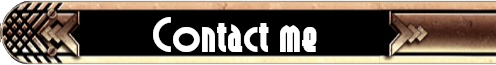
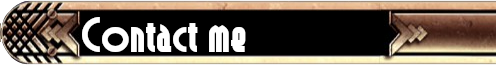
finished/Portfolio, ready for deploy

Changed region(s): [[0.1512, 0.2462, 0.6653, 0.8]]

diff --git a/src/components/Home/Home.jsx b/src/components/Home/Home.jsx
@@ -12,6 +12,25 @@ const Home = () => {
     const [sidebarAnim, setSidebarAnim] = useState(false)
     const [sidebar, setSidebar] = useState(false)
 
+    window.addEventListener("scroll", function () {
+        var scrollPos = this.scrollY
+        if(scrollPos < 270) {
+            document.getElementById('persInfoBtn').className = 'D-sidebarOpts optSelect'
+            document.getElementById('skillsBtn').className = 'D-sidebarOpts optDeselect'
+        } else if(scrollPos >= 270 &&  scrollPos < 975) {
+            document.getElementById('persInfoBtn').className = 'D-sidebarOpts optDeselect'
+            document.getElementById('skillsBtn').className = 'D-sidebarOpts optSelect'
+            document.getElementById('projectsBtn').className = 'D-sidebarOpts optDeselect'
+        } else if(scrollPos >= 975 && scrollPos < 1700) {
+            document.getElementById('skillsBtn').className = 'D-sidebarOpts optDeselect'
+            document.getElementById('projectsBtn').className = 'D-sidebarOpts optSelect'
+            document.getElementById('contactBtn').className = 'D-sidebarOpts optDeselect'
+        } else if(scrollPos >= 1700) {
+            document.getElementById('projectsBtn').className = 'D-sidebarOpts optDeselect'
+            document.getElementById('contactBtn').className = 'D-sidebarOpts optSelect'
+        }
+    })
+
     const handleDropdownClose = (e) => {
         if(e.target.name === 'dropdownBtn') {
             document.removeEventListener('mousedown', handleDropdownClose)
@@ -33,7 +52,6 @@ const Home = () => {
     }
 
     function handleButtonScroll(e) {
-        console.log(e.target.name)
         document.getElementById(e.target.name).scrollIntoView({behavior: 'smooth'});
         setSidebarAnim(false)
         setTimeout(() => {
@@ -116,12 +134,6 @@ const Home = () => {
         )
     }
 
-    function DSidebarOpts({text, name}) {
-        return (
-            <button><img /></button>
-        )
-    }
-
     return (
         <div className='bgImg'>
             <div className='langContainer'>
@@ -155,11 +167,12 @@ const Home = () => {
             </div>
             {/* -------------- */}
             {/* Desktop Sidebar */}
-            <div className='D-sidebar col-4'>
-                <DSidebarOpts text={texts[lang].sidebar.personalInf} name='persInfo'/>
-                <DSidebarOpts text={texts[lang].sidebar.skillsS} name='skills'/>
-                <DSidebarOpts text={texts[lang].sidebar.projectsS} name='projects'/>
-                <DSidebarOpts text={texts[lang].sidebar.contactS} name='contact'/>
+            <div className='D-sidebarBG' />
+            <div className='D-sidebar col-3'>
+                <img className='D-sidebarOpts' id='persInfoBtn' src={imgs.sidebar.desk[lang].about} onClick={handleButtonScroll} name='persInfo' />
+                <img className='D-sidebarOpts' id='skillsBtn' src={imgs.sidebar.desk[lang].skills} onClick={handleButtonScroll} name='skills' />
+                <img className='D-sidebarOpts' id='projectsBtn' src={imgs.sidebar.desk[lang].projects} onClick={handleButtonScroll} name='projects' />
+                <img className='D-sidebarOpts' id='contactBtn' src={imgs.sidebar.desk[lang].contact} onClick={handleButtonScroll} name='contact' />
             </div>
             {/* --------------- */}
             <div className='col-port'>

diff --git a/src/components/Home/Home.css b/src/components/Home/Home.css
@@ -9,12 +9,7 @@
 }
 
 .test {
-    position: relative;
-    display: flex;
-    flex-direction: column;
-    align-content: flex-start;
-    align-items: center;
-    border: 2px solid blue;
+    border: 2px solid green;
 }
 
 .clearer {
@@ -263,41 +258,40 @@
 }
 
 /*  Desktop Styles */
+.optSelect {
+    top: 4%;
+    right: 7%;
+}
+.optDeselect {
+    top: 8%;
+    right: -8%;
+}
+
 .D-sidebar {
     position: fixed;
     display: none;
     flex-direction: column;
-    justify-content: space-around;
-    align-content: flex-start;
-    align-items: center;
+    justify-content: center;
+    align-items: flex-start;
     height: 100%;
     top: 0px;
     right: 0px;
+}
+.D-sidebarBG {
+    position: absolute;
+    display: none;
+    height: 100%;
+    width: 15%;
+    right: 1%;
     background-image: url(../../images/SidebarTablet.png);
-    background-size: 100%;
+    background-position: center center;
     background-repeat: repeat-y;
-    border: 1px solid blue;
+    background-size: 100%;
 }
 .D-sidebarOpts {
     position: relative;
-    display: flex;
-    justify-content: center;
-    align-items: center;
-    height: 0.5%;
-    width: 100%;
-    padding: 15% 0;
-    /* right: 5%; */
-    font-size: xx-large;
-    text-shadow: 0 0 5px black;
-    background: url(../../images/Title.png);
-    background-position: center center;
-    background-repeat: no-repeat;
-    background-size: 100% 60%;
-    border: 2px solid blue;
-}
-.D-sidebarOptsText {
-    position: relative;
-    border: 2px solid red;
+    transform: rotate(30deg);
+    margin: 4% 0;
 }
 
 /* ---------------------------------------------- */
@@ -378,6 +372,7 @@
     display: flex;
     flex-direction: column;
     align-content: flex-start;
+    align-items: center;
     padding: 15px;
     border: 5px solid lightyellow;
     border-image-source: url(../../images/FullTextBox.svg);

diff --git a/src/index.css b/src/index.css
@@ -19,6 +19,11 @@
   [class*="col-"] {
     width: 100%;
   }
+
+  li.indvProject img {
+    height: 100%;
+    width: 100%;
+  }
 }
 
 @media only screen and (min-width: 426px) {
@@ -28,6 +33,7 @@
   .closedSidebarBtn {
     display: none;
   }
+
 
   div.T-sidebar {
     display: flex;
@@ -45,11 +51,15 @@
     height: 45%;
     width: 45%;
   }
+  li.indvProject img {
+    height: 100%;
+    width: 100%;
+  }
 }
 
-@media only screen and (min-width: 768px) {
+@media only screen and (min-width: 1024px) {
   /* For desktop: */
-  .col-port {width: 66.66%;}
+  .col-port {width: 75%;}
   .col-1 {width: 8.33%;}
   .col-2 {width: 16.66%;}
   .col-3 {width: 25%;}
@@ -69,6 +79,26 @@
 
   div.D-sidebar {
     display: flex;
+  }
+  div.D-sidebarBG {
+    display: inline-block;
+  }
+  div.langContainer {
+    height: 12%;
+    width: 6.5%;
+  }
+  button.langBtn {
+    font-size: 45px;
+  }
+  span.fullName {
+    font-size: 75px;
+  }
+  p.desc {
+    font-size: 20px;
+  }
+  li.indvProject img {
+    height: 50%;
+    width: 75%;
   }
 }
 

diff --git a/src/images/index.js b/src/images/index.js
@@ -16,6 +16,14 @@ import linkedin from './LinkedIn.png';
 import github from './GitHub.png';
 import ecom from './EcommerceImg.png';
 import poke from './PokeAppImg.png';
+import aboutES from './TitleSobreMi.png';
+import aboutEN from './TitleAboutMe.png';
+import skillsES from './TitleHabilidades.png';
+import skillsEN from './TitleSkills.png';
+import projectsES from './TitleProyectos.png';
+import projectsEN from './TitleProjects.png';
+import contactES from './TitleContactame.png';
+import contactEN from './TitleContactMe.png';
 
 export default {
     sidebar: {
@@ -24,7 +32,18 @@ export default {
             close
         },
         desk: {
-
+            es: {
+                about: aboutES,
+                skills: skillsES,
+                projects: projectsES,
+                contact: contactES
+            },
+            en: {
+                about: aboutEN,
+                skills: skillsEN,
+                projects: projectsEN,
+                contact: contactEN
+            },
         }
     },
     page: {
